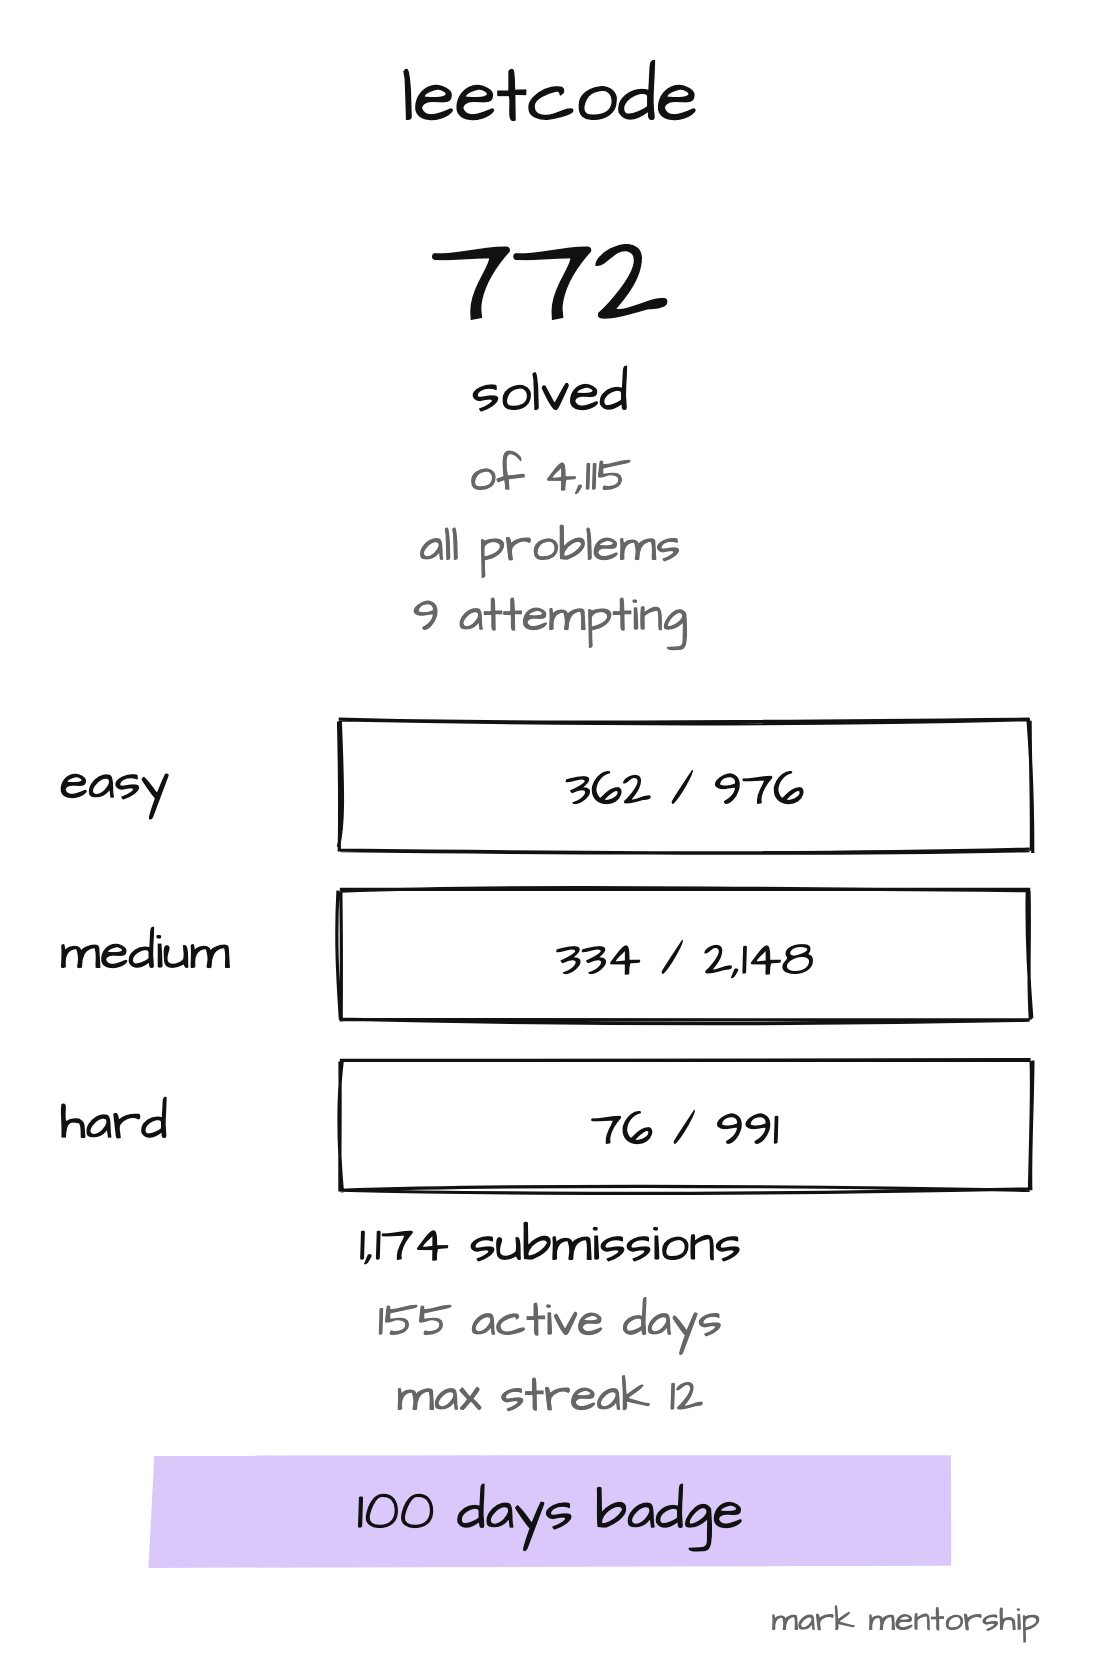
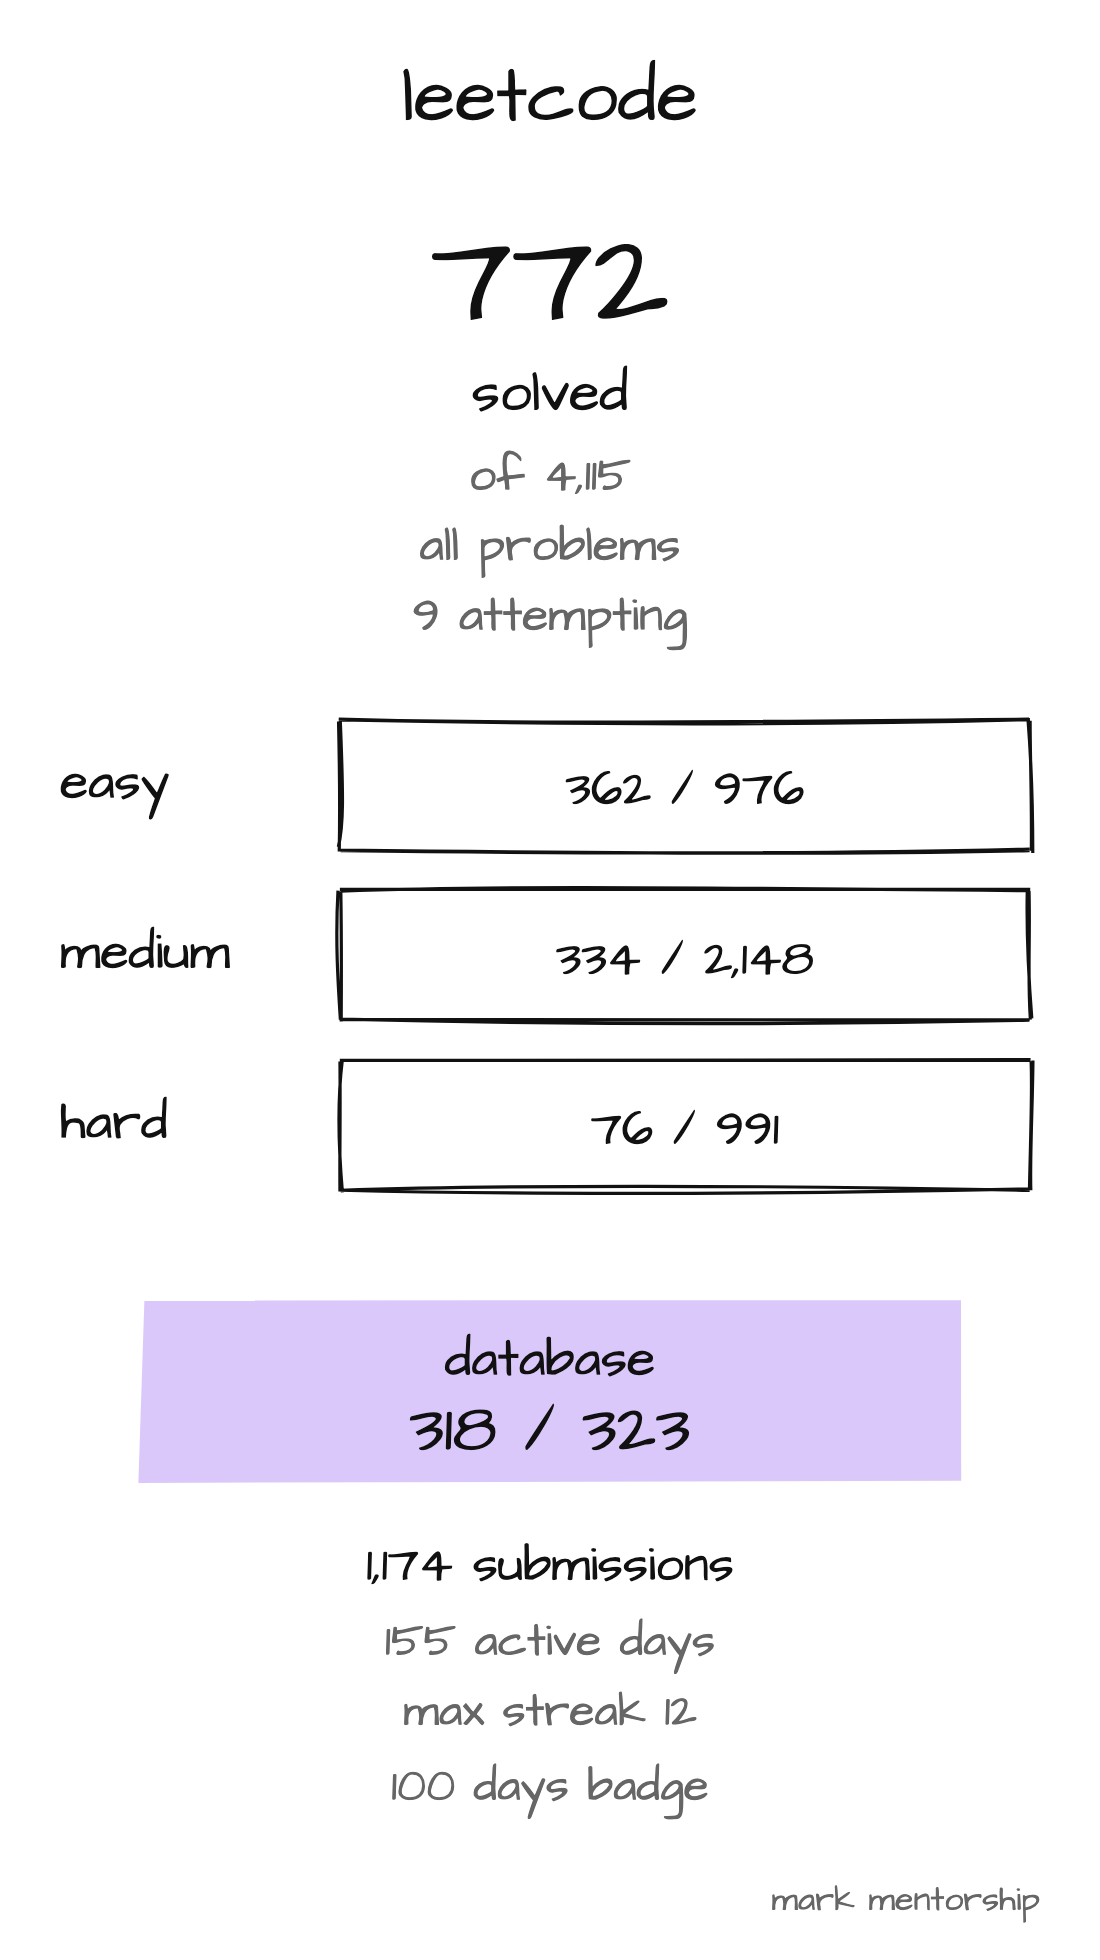
Add the LeetCode database count to the scoreboard.
318 of 323 is the SQL set, separate from the 772 solved across all problems.

diff --git a/index.html b/index.html
@@ -119,8 +119,8 @@ j=d.createElement(s),dl=l!='dataLayer'?'&l='+l:'';j.async=true;j.src=
         </a>
         <a href="https://leetcode.com/u/markphammm/" target="_blank" rel="noopener">
           <picture class="drawing">
-            <source media="(max-width: 640px)" srcset="assets/img/sql-lc-m.png" width="1100" height="1680">
-            <img src="assets/img/sql-lc.png" alt="LeetCode: 772 solved of 4,115 across all problems, 9 still attempting. Easy 362 of 976, medium 334 of 2,148, hard 76 of 991. 1,174 submissions, 155 active days, max streak 12, 100 days badge." width="1100" height="1520" loading="lazy">
+            <source media="(max-width: 640px)" srcset="assets/img/sql-lc-m.png" width="1100" height="1960">
+            <img src="assets/img/sql-lc.png" alt="LeetCode: 772 solved of 4,115 across all problems, 9 still attempting. Easy 362 of 976, medium 334 of 2,148, hard 76 of 991. Database 318 of 323. 1,174 submissions, 155 active days, max streak 12, 100 days badge." width="1100" height="1700" loading="lazy">
           </picture>
           <span class="hand sql-cap">leetcode</span>
         </a>

diff --git a/drawing/sql-lc-m.js b/drawing/sql-lc-m.js
@@ -15,9 +15,11 @@ diffs.forEach((d, i) => {
   text(d[1], 685, y + 84, 50);
 });
 
-text('1,174 submissions', 550, 1260, 52);
-text('155 active days', 550, 1335, 48, 'middle', '#666');
-text('max streak 12', 550, 1410, 48, 'middle', '#666');
-highlight(150, 1455, 800, 110);
-text('100 days badge', 550, 1528, 56);
+highlight(140, 1300, 820, 180);
+text('database', 550, 1375, 52);
+text('318 / 323', 550, 1450, 68);
+text('1,174 submissions', 550, 1580, 50);
+text('155 active days', 550, 1655, 46, 'middle', '#666');
+text('max streak 12', 550, 1725, 46, 'middle', '#666');
+text('100 days badge', 550, 1800, 46, 'middle', '#666');
 signature();

diff --git a/drawing/sql-lc.js b/drawing/sql-lc.js
@@ -15,9 +15,11 @@ diffs.forEach((d, i) => {
   text(d[1], 750, y + 64, 44);
 });
 
-text('1,174 submissions', 550, 1120, 46);
-text('155 active days', 550, 1185, 44, 'middle', '#666');
-text('max streak 12', 550, 1250, 44, 'middle', '#666');
-highlight(200, 1280, 700, 76);
-text('100 days badge', 550, 1332, 46);
+highlight(170, 1120, 760, 150);
+text('database', 550, 1180, 44);
+text('318 / 323', 550, 1240, 56);
+text('1,174 submissions', 550, 1360, 44);
+text('155 active days', 550, 1425, 40, 'middle', '#666');
+text('max streak 12', 550, 1485, 40, 'middle', '#666');
+text('100 days badge', 550, 1550, 40, 'middle', '#666');
 signature();

diff --git a/drawing/make.py b/drawing/make.py
@@ -6,7 +6,7 @@ NAME = sys.argv[1]
 SIZES = {'hero': (2000, 760), 'how': (2000, 900), 'note': (2000, 1000), 'offer': (2000, 1000), 'og': (1200, 630), 'square': (1600, 1600),
          'hero-m': (1100, 720), 'offer-m': (1100, 1000), 'note-m': (1100, 960), 'how-m': (1100, 980), 'portrait': (900, 1050),
          'projects': (2400, 1150), 'projects-m': (1100, 1930), 'findings': (2000, 1060), 'findings-m': (1100, 1000), 'explorer': (1600, 900),
-         'sql-ss': (1100, 1360), 'sql-lc': (1100, 1520), 'sql-ss-m': (1100, 1780), 'sql-lc-m': (1100, 1680),
+         'sql-ss': (1100, 1360), 'sql-lc': (1100, 1700), 'sql-ss-m': (1100, 1780), 'sql-lc-m': (1100, 1960),
          **{n: (1200, 675) for n in ['proj-skytrax', 'proj-delta', 'proj-frontier', 'proj-spirit', 'proj-local']}}
 W, H = SIZES[NAME]
 OUT = NAME + '.png'
